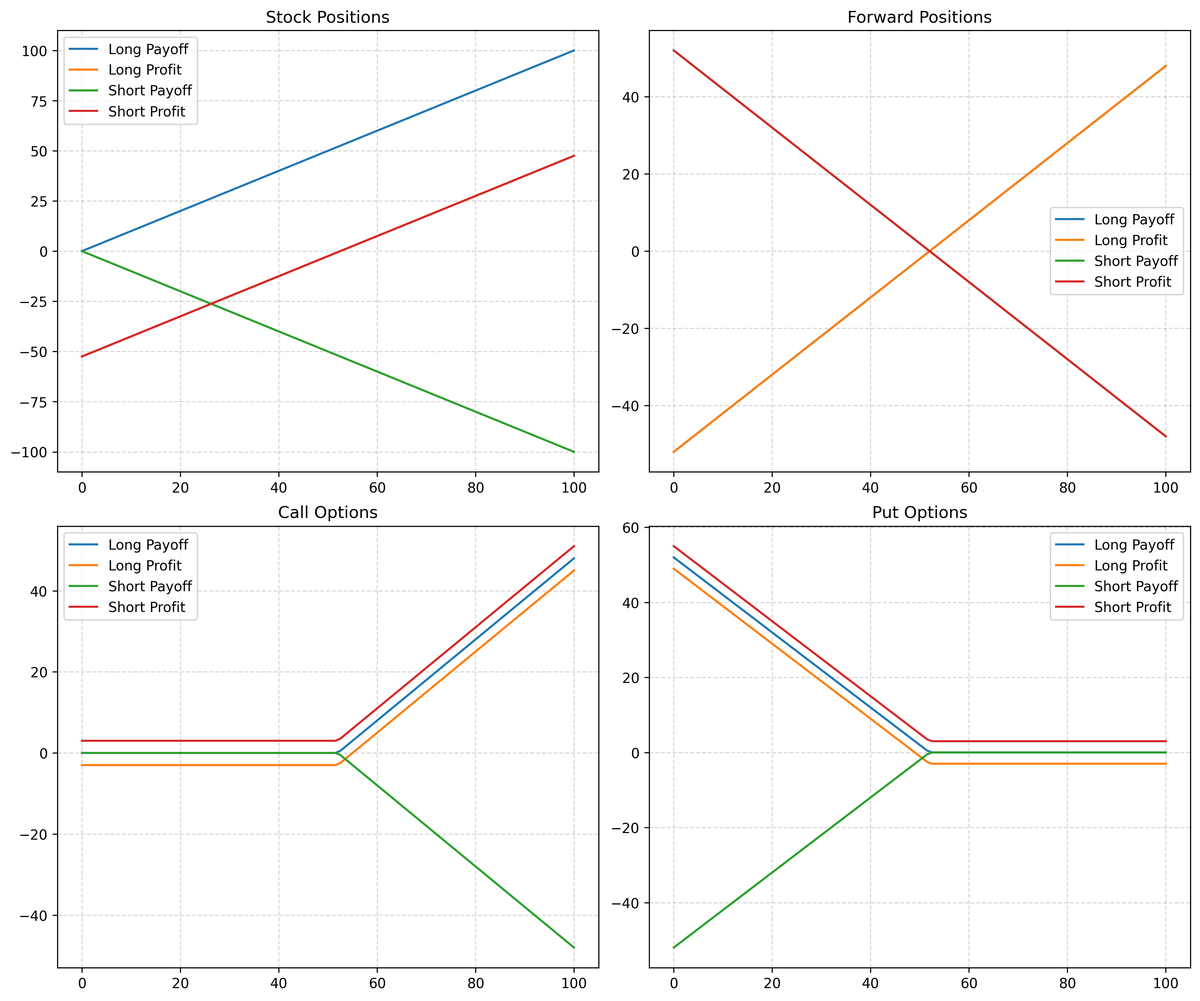
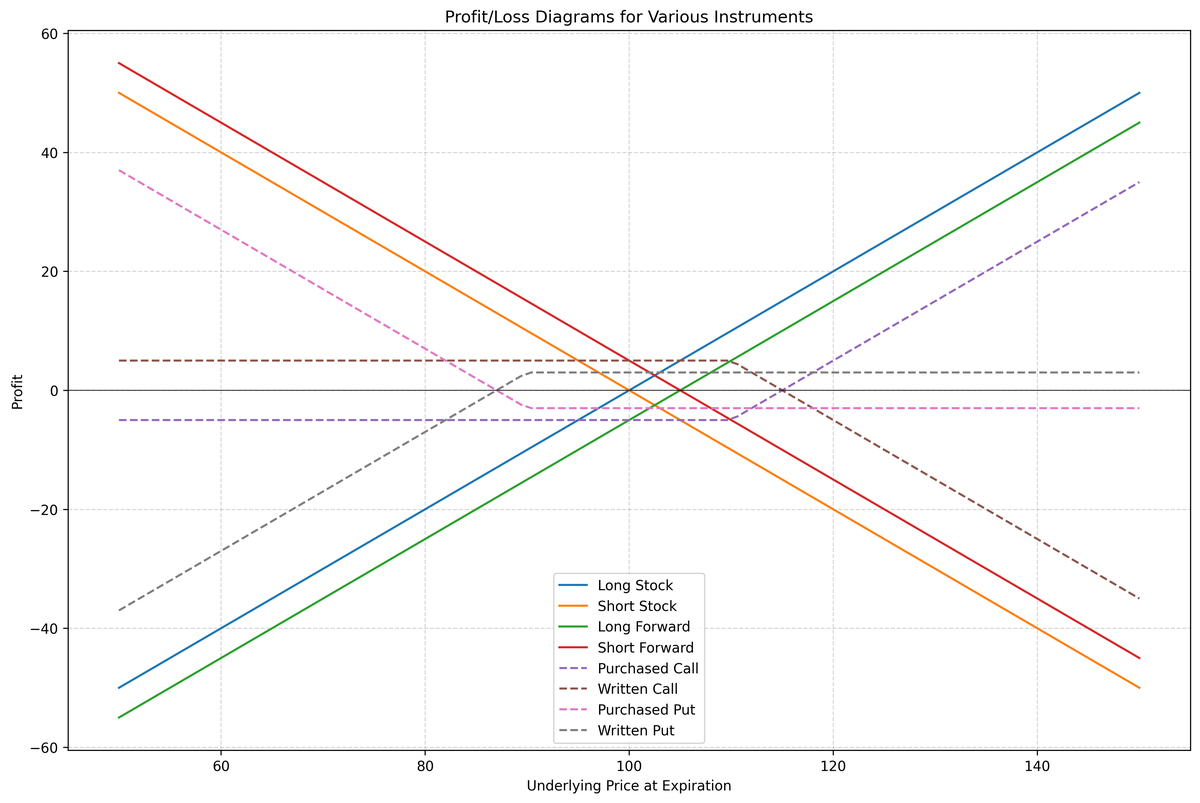
Homework 1

diff --git a/assignments/Weldon/chapter_2_9_solutions.html b/assignments/Weldon/chapter_2_9_solutions.html
@@ -425,94 +425,83 @@ pre > code.sourceCode > span > a:first-child::before { text-decoration: underlin
 <section id="problem-2.16-option-calculator-program" class="level2">
 <h2 class="anchored" data-anchor-id="problem-2.16-option-calculator-program">Problem 2.16: Option Calculator Program</h2>
 <div id="cell-prob-2-16" class="cell" data-fig-height="10" data-fig-width="12" data-execution_count="10">
-<div class="sourceCode cell-code" id="cb14"><pre class="sourceCode python code-with-copy"><code class="sourceCode python"><span id="cb14-1"><a href="#cb14-1" aria-hidden="true" tabindex="-1"></a><span class="kw">def</span> calculate_payoff_profit(position_type, params):</span>
-<span id="cb14-2"><a href="#cb14-2" aria-hidden="true" tabindex="-1"></a>    <span class="co">"""</span></span>
-<span id="cb14-3"><a href="#cb14-3" aria-hidden="true" tabindex="-1"></a><span class="co">    Calculate payoff and profit for various option positions</span></span>
-<span id="cb14-4"><a href="#cb14-4" aria-hidden="true" tabindex="-1"></a><span class="co">    </span></span>
-<span id="cb14-5"><a href="#cb14-5" aria-hidden="true" tabindex="-1"></a><span class="co">    Parameters:</span></span>
-<span id="cb14-6"><a href="#cb14-6" aria-hidden="true" tabindex="-1"></a><span class="co">    position_type: str ('stock', 'forward', 'call', 'put')</span></span>
-<span id="cb14-7"><a href="#cb14-7" aria-hidden="true" tabindex="-1"></a><span class="co">    params: dict containing relevant parameters</span></span>
-<span id="cb14-8"><a href="#cb14-8" aria-hidden="true" tabindex="-1"></a><span class="co">    """</span></span>
-<span id="cb14-9"><a href="#cb14-9" aria-hidden="true" tabindex="-1"></a>    S <span class="op">=</span> np.linspace(<span class="dv">0</span>, <span class="dv">2</span><span class="op">*</span>params.get(<span class="st">'S0'</span>, <span class="dv">100</span>), <span class="dv">100</span>)  <span class="co"># Stock prices</span></span>
-<span id="cb14-10"><a href="#cb14-10" aria-hidden="true" tabindex="-1"></a>    </span>
-<span id="cb14-11"><a href="#cb14-11" aria-hidden="true" tabindex="-1"></a>    <span class="cf">if</span> position_type <span class="op">==</span> <span class="st">'stock'</span>:</span>
-<span id="cb14-12"><a href="#cb14-12" aria-hidden="true" tabindex="-1"></a>        payoff <span class="op">=</span> S <span class="cf">if</span> params[<span class="st">'is_long'</span>] <span class="cf">else</span> <span class="op">-</span>S</span>
-<span id="cb14-13"><a href="#cb14-13" aria-hidden="true" tabindex="-1"></a>        profit <span class="op">=</span> payoff <span class="op">-</span> params[<span class="st">'S0'</span>]<span class="op">*</span>(<span class="dv">1</span> <span class="op">+</span> params[<span class="st">'r'</span>]) <span class="cf">if</span> params[<span class="st">'is_long'</span>] <span class="cf">else</span> <span class="op">-</span>payoff <span class="op">-</span> params[<span class="st">'S0'</span>]<span class="op">*</span>(<span class="dv">1</span> <span class="op">+</span> params[<span class="st">'r'</span>])</span>
-<span id="cb14-14"><a href="#cb14-14" aria-hidden="true" tabindex="-1"></a>    </span>
-<span id="cb14-15"><a href="#cb14-15" aria-hidden="true" tabindex="-1"></a>    <span class="cf">elif</span> position_type <span class="op">==</span> <span class="st">'forward'</span>:</span>
-<span id="cb14-16"><a href="#cb14-16" aria-hidden="true" tabindex="-1"></a>        payoff <span class="op">=</span> (S <span class="op">-</span> params[<span class="st">'K'</span>]) <span class="cf">if</span> params[<span class="st">'is_long'</span>] <span class="cf">else</span> <span class="op">-</span>(S <span class="op">-</span> params[<span class="st">'K'</span>])</span>
-<span id="cb14-17"><a href="#cb14-17" aria-hidden="true" tabindex="-1"></a>        profit <span class="op">=</span> payoff  <span class="co"># No upfront premium for forward</span></span>
-<span id="cb14-18"><a href="#cb14-18" aria-hidden="true" tabindex="-1"></a>        </span>
-<span id="cb14-19"><a href="#cb14-19" aria-hidden="true" tabindex="-1"></a>    <span class="cf">elif</span> position_type <span class="op">==</span> <span class="st">'call'</span>:</span>
-<span id="cb14-20"><a href="#cb14-20" aria-hidden="true" tabindex="-1"></a>        payoff <span class="op">=</span> np.maximum(S <span class="op">-</span> params[<span class="st">'K'</span>], <span class="dv">0</span>) <span class="cf">if</span> params[<span class="st">'is_long'</span>] <span class="cf">else</span> <span class="op">-</span>np.maximum(S <span class="op">-</span> params[<span class="st">'K'</span>], <span class="dv">0</span>)</span>
-<span id="cb14-21"><a href="#cb14-21" aria-hidden="true" tabindex="-1"></a>        profit <span class="op">=</span> payoff <span class="op">-</span> params[<span class="st">'premium'</span>] <span class="cf">if</span> params[<span class="st">'is_long'</span>] <span class="cf">else</span> <span class="op">-</span>payoff <span class="op">+</span> params[<span class="st">'premium'</span>]</span>
-<span id="cb14-22"><a href="#cb14-22" aria-hidden="true" tabindex="-1"></a>        </span>
-<span id="cb14-23"><a href="#cb14-23" aria-hidden="true" tabindex="-1"></a>    <span class="cf">elif</span> position_type <span class="op">==</span> <span class="st">'put'</span>:</span>
-<span id="cb14-24"><a href="#cb14-24" aria-hidden="true" tabindex="-1"></a>        payoff <span class="op">=</span> np.maximum(params[<span class="st">'K'</span>] <span class="op">-</span> S, <span class="dv">0</span>) <span class="cf">if</span> params[<span class="st">'is_long'</span>] <span class="cf">else</span> <span class="op">-</span>np.maximum(params[<span class="st">'K'</span>] <span class="op">-</span> S, <span class="dv">0</span>)</span>
-<span id="cb14-25"><a href="#cb14-25" aria-hidden="true" tabindex="-1"></a>        profit <span class="op">=</span> payoff <span class="op">-</span> params[<span class="st">'premium'</span>] <span class="cf">if</span> params[<span class="st">'is_long'</span>] <span class="cf">else</span> <span class="op">-</span>payoff <span class="op">+</span> params[<span class="st">'premium'</span>]</span>
-<span id="cb14-26"><a href="#cb14-26" aria-hidden="true" tabindex="-1"></a>    </span>
-<span id="cb14-27"><a href="#cb14-27" aria-hidden="true" tabindex="-1"></a>    <span class="cf">return</span> S, payoff, profit</span>
-<span id="cb14-28"><a href="#cb14-28" aria-hidden="true" tabindex="-1"></a></span>
-<span id="cb14-29"><a href="#cb14-29" aria-hidden="true" tabindex="-1"></a><span class="co"># Example usage</span></span>
-<span id="cb14-30"><a href="#cb14-30" aria-hidden="true" tabindex="-1"></a>params <span class="op">=</span> {</span>
-<span id="cb14-31"><a href="#cb14-31" aria-hidden="true" tabindex="-1"></a>    <span class="st">'S0'</span>: <span class="dv">50</span>,      <span class="co"># Current stock price</span></span>
-<span id="cb14-32"><a href="#cb14-32" aria-hidden="true" tabindex="-1"></a>    <span class="st">'K'</span>: <span class="dv">52</span>,       <span class="co"># Strike price</span></span>
-<span id="cb14-33"><a href="#cb14-33" aria-hidden="true" tabindex="-1"></a>    <span class="st">'r'</span>: <span class="fl">0.05</span>,     <span class="co"># Interest rate</span></span>
-<span id="cb14-34"><a href="#cb14-34" aria-hidden="true" tabindex="-1"></a>    <span class="st">'premium'</span>: <span class="dv">3</span>,   <span class="co"># Option premium</span></span>
-<span id="cb14-35"><a href="#cb14-35" aria-hidden="true" tabindex="-1"></a>    <span class="st">'is_long'</span>: <span class="va">True</span> <span class="co"># Long position</span></span>
-<span id="cb14-36"><a href="#cb14-36" aria-hidden="true" tabindex="-1"></a>}</span>
-<span id="cb14-37"><a href="#cb14-37" aria-hidden="true" tabindex="-1"></a></span>
-<span id="cb14-38"><a href="#cb14-38" aria-hidden="true" tabindex="-1"></a><span class="co"># Create subplots for all position types with constrained layout</span></span>
-<span id="cb14-39"><a href="#cb14-39" aria-hidden="true" tabindex="-1"></a>fig <span class="op">=</span> plt.figure(figsize<span class="op">=</span>(<span class="dv">12</span>, <span class="dv">10</span>), constrained_layout<span class="op">=</span><span class="va">True</span>)</span>
-<span id="cb14-40"><a href="#cb14-40" aria-hidden="true" tabindex="-1"></a>gs <span class="op">=</span> fig.add_gridspec(<span class="dv">2</span>, <span class="dv">2</span>)</span>
-<span id="cb14-41"><a href="#cb14-41" aria-hidden="true" tabindex="-1"></a></span>
-<span id="cb14-42"><a href="#cb14-42" aria-hidden="true" tabindex="-1"></a><span class="co"># Stock positions</span></span>
-<span id="cb14-43"><a href="#cb14-43" aria-hidden="true" tabindex="-1"></a>ax1 <span class="op">=</span> fig.add_subplot(gs[<span class="dv">0</span>, <span class="dv">0</span>])</span>
-<span id="cb14-44"><a href="#cb14-44" aria-hidden="true" tabindex="-1"></a>S, payoff, profit <span class="op">=</span> calculate_payoff_profit(<span class="st">'stock'</span>, {<span class="op">**</span>params, <span class="st">'is_long'</span>: <span class="va">True</span>})</span>
-<span id="cb14-45"><a href="#cb14-45" aria-hidden="true" tabindex="-1"></a>ax1.plot(S, payoff, label<span class="op">=</span><span class="st">'Long Payoff'</span>)</span>
-<span id="cb14-46"><a href="#cb14-46" aria-hidden="true" tabindex="-1"></a>ax1.plot(S, profit, label<span class="op">=</span><span class="st">'Long Profit'</span>)</span>
-<span id="cb14-47"><a href="#cb14-47" aria-hidden="true" tabindex="-1"></a>S, payoff, profit <span class="op">=</span> calculate_payoff_profit(<span class="st">'stock'</span>, {<span class="op">**</span>params, <span class="st">'is_long'</span>: <span class="va">False</span>})</span>
-<span id="cb14-48"><a href="#cb14-48" aria-hidden="true" tabindex="-1"></a>ax1.plot(S, payoff, label<span class="op">=</span><span class="st">'Short Payoff'</span>)</span>
-<span id="cb14-49"><a href="#cb14-49" aria-hidden="true" tabindex="-1"></a>ax1.plot(S, profit, label<span class="op">=</span><span class="st">'Short Profit'</span>)</span>
-<span id="cb14-50"><a href="#cb14-50" aria-hidden="true" tabindex="-1"></a>ax1.set_title(<span class="st">'Stock Positions'</span>)</span>
-<span id="cb14-51"><a href="#cb14-51" aria-hidden="true" tabindex="-1"></a>ax1.grid(<span class="va">True</span>)</span>
-<span id="cb14-52"><a href="#cb14-52" aria-hidden="true" tabindex="-1"></a>ax1.legend()</span>
-<span id="cb14-53"><a href="#cb14-53" aria-hidden="true" tabindex="-1"></a></span>
-<span id="cb14-54"><a href="#cb14-54" aria-hidden="true" tabindex="-1"></a><span class="co"># Forward positions</span></span>
-<span id="cb14-55"><a href="#cb14-55" aria-hidden="true" tabindex="-1"></a>ax2 <span class="op">=</span> fig.add_subplot(gs[<span class="dv">0</span>, <span class="dv">1</span>])</span>
-<span id="cb14-56"><a href="#cb14-56" aria-hidden="true" tabindex="-1"></a>S, payoff, profit <span class="op">=</span> calculate_payoff_profit(<span class="st">'forward'</span>, {<span class="op">**</span>params, <span class="st">'is_long'</span>: <span class="va">True</span>})</span>
-<span id="cb14-57"><a href="#cb14-57" aria-hidden="true" tabindex="-1"></a>ax2.plot(S, payoff, label<span class="op">=</span><span class="st">'Long Payoff'</span>)</span>
-<span id="cb14-58"><a href="#cb14-58" aria-hidden="true" tabindex="-1"></a>ax2.plot(S, profit, label<span class="op">=</span><span class="st">'Long Profit'</span>)</span>
-<span id="cb14-59"><a href="#cb14-59" aria-hidden="true" tabindex="-1"></a>S, payoff, profit <span class="op">=</span> calculate_payoff_profit(<span class="st">'forward'</span>, {<span class="op">**</span>params, <span class="st">'is_long'</span>: <span class="va">False</span>})</span>
-<span id="cb14-60"><a href="#cb14-60" aria-hidden="true" tabindex="-1"></a>ax2.plot(S, payoff, label<span class="op">=</span><span class="st">'Short Payoff'</span>)</span>
-<span id="cb14-61"><a href="#cb14-61" aria-hidden="true" tabindex="-1"></a>ax2.plot(S, profit, label<span class="op">=</span><span class="st">'Short Profit'</span>)</span>
-<span id="cb14-62"><a href="#cb14-62" aria-hidden="true" tabindex="-1"></a>ax2.set_title(<span class="st">'Forward Positions'</span>)</span>
-<span id="cb14-63"><a href="#cb14-63" aria-hidden="true" tabindex="-1"></a>ax2.grid(<span class="va">True</span>)</span>
-<span id="cb14-64"><a href="#cb14-64" aria-hidden="true" tabindex="-1"></a>ax2.legend()</span>
-<span id="cb14-65"><a href="#cb14-65" aria-hidden="true" tabindex="-1"></a></span>
-<span id="cb14-66"><a href="#cb14-66" aria-hidden="true" tabindex="-1"></a><span class="co"># Call options</span></span>
-<span id="cb14-67"><a href="#cb14-67" aria-hidden="true" tabindex="-1"></a>ax3 <span class="op">=</span> fig.add_subplot(gs[<span class="dv">1</span>, <span class="dv">0</span>])</span>
-<span id="cb14-68"><a href="#cb14-68" aria-hidden="true" tabindex="-1"></a>S, payoff, profit <span class="op">=</span> calculate_payoff_profit(<span class="st">'call'</span>, {<span class="op">**</span>params, <span class="st">'is_long'</span>: <span class="va">True</span>})</span>
-<span id="cb14-69"><a href="#cb14-69" aria-hidden="true" tabindex="-1"></a>ax3.plot(S, payoff, label<span class="op">=</span><span class="st">'Long Payoff'</span>)</span>
-<span id="cb14-70"><a href="#cb14-70" aria-hidden="true" tabindex="-1"></a>ax3.plot(S, profit, label<span class="op">=</span><span class="st">'Long Profit'</span>)</span>
-<span id="cb14-71"><a href="#cb14-71" aria-hidden="true" tabindex="-1"></a>S, payoff, profit <span class="op">=</span> calculate_payoff_profit(<span class="st">'call'</span>, {<span class="op">**</span>params, <span class="st">'is_long'</span>: <span class="va">False</span>})</span>
-<span id="cb14-72"><a href="#cb14-72" aria-hidden="true" tabindex="-1"></a>ax3.plot(S, payoff, label<span class="op">=</span><span class="st">'Short Payoff'</span>)</span>
-<span id="cb14-73"><a href="#cb14-73" aria-hidden="true" tabindex="-1"></a>ax3.plot(S, profit, label<span class="op">=</span><span class="st">'Short Profit'</span>)</span>
-<span id="cb14-74"><a href="#cb14-74" aria-hidden="true" tabindex="-1"></a>ax3.set_title(<span class="st">'Call Options'</span>)</span>
-<span id="cb14-75"><a href="#cb14-75" aria-hidden="true" tabindex="-1"></a>ax3.grid(<span class="va">True</span>)</span>
-<span id="cb14-76"><a href="#cb14-76" aria-hidden="true" tabindex="-1"></a>ax3.legend()</span>
-<span id="cb14-77"><a href="#cb14-77" aria-hidden="true" tabindex="-1"></a></span>
-<span id="cb14-78"><a href="#cb14-78" aria-hidden="true" tabindex="-1"></a><span class="co"># Put options</span></span>
-<span id="cb14-79"><a href="#cb14-79" aria-hidden="true" tabindex="-1"></a>ax4 <span class="op">=</span> fig.add_subplot(gs[<span class="dv">1</span>, <span class="dv">1</span>])</span>
-<span id="cb14-80"><a href="#cb14-80" aria-hidden="true" tabindex="-1"></a>S, payoff, profit <span class="op">=</span> calculate_payoff_profit(<span class="st">'put'</span>, {<span class="op">**</span>params, <span class="st">'is_long'</span>: <span class="va">True</span>})</span>
-<span id="cb14-81"><a href="#cb14-81" aria-hidden="true" tabindex="-1"></a>ax4.plot(S, payoff, label<span class="op">=</span><span class="st">'Long Payoff'</span>)</span>
-<span id="cb14-82"><a href="#cb14-82" aria-hidden="true" tabindex="-1"></a>ax4.plot(S, profit, label<span class="op">=</span><span class="st">'Long Profit'</span>)</span>
-<span id="cb14-83"><a href="#cb14-83" aria-hidden="true" tabindex="-1"></a>S, payoff, profit <span class="op">=</span> calculate_payoff_profit(<span class="st">'put'</span>, {<span class="op">**</span>params, <span class="st">'is_long'</span>: <span class="va">False</span>})</span>
-<span id="cb14-84"><a href="#cb14-84" aria-hidden="true" tabindex="-1"></a>ax4.plot(S, payoff, label<span class="op">=</span><span class="st">'Short Payoff'</span>)</span>
-<span id="cb14-85"><a href="#cb14-85" aria-hidden="true" tabindex="-1"></a>ax4.plot(S, profit, label<span class="op">=</span><span class="st">'Short Profit'</span>)</span>
-<span id="cb14-86"><a href="#cb14-86" aria-hidden="true" tabindex="-1"></a>ax4.set_title(<span class="st">'Put Options'</span>)</span>
-<span id="cb14-87"><a href="#cb14-87" aria-hidden="true" tabindex="-1"></a>ax4.grid(<span class="va">True</span>)</span>
-<span id="cb14-88"><a href="#cb14-88" aria-hidden="true" tabindex="-1"></a>ax4.legend()</span></code><button title="Copy to Clipboard" class="code-copy-button"><i class="bi"></i></button></pre></div>
+<div class="sourceCode cell-code" id="cb14"><pre class="sourceCode python code-with-copy"><code class="sourceCode python"><span id="cb14-1"><a href="#cb14-1" aria-hidden="true" tabindex="-1"></a><span class="kw">def</span> calculate_instruments(S_T, S0, F, r, call_strike, call_premium, put_strike, put_premium):</span>
+<span id="cb14-2"><a href="#cb14-2" aria-hidden="true" tabindex="-1"></a>    <span class="co">"""Calculate payoffs and profits for all instruments"""</span></span>
+<span id="cb14-3"><a href="#cb14-3" aria-hidden="true" tabindex="-1"></a>    results <span class="op">=</span> {}</span>
+<span id="cb14-4"><a href="#cb14-4" aria-hidden="true" tabindex="-1"></a>    </span>
+<span id="cb14-5"><a href="#cb14-5" aria-hidden="true" tabindex="-1"></a>    <span class="co"># Stock positions</span></span>
+<span id="cb14-6"><a href="#cb14-6" aria-hidden="true" tabindex="-1"></a>    results[<span class="st">'long_stock'</span>] <span class="op">=</span> S_T <span class="op">-</span> S0</span>
+<span id="cb14-7"><a href="#cb14-7" aria-hidden="true" tabindex="-1"></a>    results[<span class="st">'short_stock'</span>] <span class="op">=</span> S0 <span class="op">-</span> S_T</span>
+<span id="cb14-8"><a href="#cb14-8" aria-hidden="true" tabindex="-1"></a>    </span>
+<span id="cb14-9"><a href="#cb14-9" aria-hidden="true" tabindex="-1"></a>    <span class="co"># Forward positions</span></span>
+<span id="cb14-10"><a href="#cb14-10" aria-hidden="true" tabindex="-1"></a>    results[<span class="st">'long_forward'</span>] <span class="op">=</span> S_T <span class="op">-</span> F</span>
+<span id="cb14-11"><a href="#cb14-11" aria-hidden="true" tabindex="-1"></a>    results[<span class="st">'short_forward'</span>] <span class="op">=</span> F <span class="op">-</span> S_T</span>
+<span id="cb14-12"><a href="#cb14-12" aria-hidden="true" tabindex="-1"></a>    </span>
+<span id="cb14-13"><a href="#cb14-13" aria-hidden="true" tabindex="-1"></a>    <span class="co"># Call options</span></span>
+<span id="cb14-14"><a href="#cb14-14" aria-hidden="true" tabindex="-1"></a>    call_payoff_long <span class="op">=</span> np.maximum(S_T <span class="op">-</span> call_strike, <span class="dv">0</span>)</span>
+<span id="cb14-15"><a href="#cb14-15" aria-hidden="true" tabindex="-1"></a>    results[<span class="st">'call_purchased'</span>] <span class="op">=</span> {</span>
+<span id="cb14-16"><a href="#cb14-16" aria-hidden="true" tabindex="-1"></a>        <span class="st">'payoff'</span>: call_payoff_long,</span>
+<span id="cb14-17"><a href="#cb14-17" aria-hidden="true" tabindex="-1"></a>        <span class="st">'profit'</span>: call_payoff_long <span class="op">-</span> call_premium</span>
+<span id="cb14-18"><a href="#cb14-18" aria-hidden="true" tabindex="-1"></a>    }</span>
+<span id="cb14-19"><a href="#cb14-19" aria-hidden="true" tabindex="-1"></a>    results[<span class="st">'call_written'</span>] <span class="op">=</span> {</span>
+<span id="cb14-20"><a href="#cb14-20" aria-hidden="true" tabindex="-1"></a>        <span class="st">'payoff'</span>: <span class="op">-</span>call_payoff_long,</span>
+<span id="cb14-21"><a href="#cb14-21" aria-hidden="true" tabindex="-1"></a>        <span class="st">'profit'</span>: <span class="op">-</span>call_payoff_long <span class="op">+</span> call_premium</span>
+<span id="cb14-22"><a href="#cb14-22" aria-hidden="true" tabindex="-1"></a>    }</span>
+<span id="cb14-23"><a href="#cb14-23" aria-hidden="true" tabindex="-1"></a>    </span>
+<span id="cb14-24"><a href="#cb14-24" aria-hidden="true" tabindex="-1"></a>    <span class="co"># Put options</span></span>
+<span id="cb14-25"><a href="#cb14-25" aria-hidden="true" tabindex="-1"></a>    put_payoff_long <span class="op">=</span> np.maximum(put_strike <span class="op">-</span> S_T, <span class="dv">0</span>)</span>
+<span id="cb14-26"><a href="#cb14-26" aria-hidden="true" tabindex="-1"></a>    results[<span class="st">'put_purchased'</span>] <span class="op">=</span> {</span>
+<span id="cb14-27"><a href="#cb14-27" aria-hidden="true" tabindex="-1"></a>        <span class="st">'payoff'</span>: put_payoff_long,</span>
+<span id="cb14-28"><a href="#cb14-28" aria-hidden="true" tabindex="-1"></a>        <span class="st">'profit'</span>: put_payoff_long <span class="op">-</span> put_premium</span>
+<span id="cb14-29"><a href="#cb14-29" aria-hidden="true" tabindex="-1"></a>    }</span>
+<span id="cb14-30"><a href="#cb14-30" aria-hidden="true" tabindex="-1"></a>    results[<span class="st">'put_written'</span>] <span class="op">=</span> {</span>
+<span id="cb14-31"><a href="#cb14-31" aria-hidden="true" tabindex="-1"></a>        <span class="st">'payoff'</span>: <span class="op">-</span>put_payoff_long,</span>
+<span id="cb14-32"><a href="#cb14-32" aria-hidden="true" tabindex="-1"></a>        <span class="st">'profit'</span>: <span class="op">-</span>put_payoff_long <span class="op">+</span> put_premium</span>
+<span id="cb14-33"><a href="#cb14-33" aria-hidden="true" tabindex="-1"></a>    }</span>
+<span id="cb14-34"><a href="#cb14-34" aria-hidden="true" tabindex="-1"></a>    </span>
+<span id="cb14-35"><a href="#cb14-35" aria-hidden="true" tabindex="-1"></a>    <span class="cf">return</span> results</span>
+<span id="cb14-36"><a href="#cb14-36" aria-hidden="true" tabindex="-1"></a></span>
+<span id="cb14-37"><a href="#cb14-37" aria-hidden="true" tabindex="-1"></a><span class="co"># Parameters (user can modify these)</span></span>
+<span id="cb14-38"><a href="#cb14-38" aria-hidden="true" tabindex="-1"></a>S0 <span class="op">=</span> <span class="dv">100</span>        <span class="co"># Initial stock price</span></span>
+<span id="cb14-39"><a href="#cb14-39" aria-hidden="true" tabindex="-1"></a>F <span class="op">=</span> <span class="dv">105</span>         <span class="co"># Forward price</span></span>
+<span id="cb14-40"><a href="#cb14-40" aria-hidden="true" tabindex="-1"></a>r <span class="op">=</span> <span class="fl">0.05</span>        <span class="co"># Annual interest rate</span></span>
+<span id="cb14-41"><a href="#cb14-41" aria-hidden="true" tabindex="-1"></a>call_strike <span class="op">=</span> <span class="dv">110</span></span>
+<span id="cb14-42"><a href="#cb14-42" aria-hidden="true" tabindex="-1"></a>call_premium <span class="op">=</span> <span class="dv">5</span></span>
+<span id="cb14-43"><a href="#cb14-43" aria-hidden="true" tabindex="-1"></a>put_strike <span class="op">=</span> <span class="dv">90</span></span>
+<span id="cb14-44"><a href="#cb14-44" aria-hidden="true" tabindex="-1"></a>put_premium <span class="op">=</span> <span class="dv">3</span></span>
+<span id="cb14-45"><a href="#cb14-45" aria-hidden="true" tabindex="-1"></a></span>
+<span id="cb14-46"><a href="#cb14-46" aria-hidden="true" tabindex="-1"></a><span class="co"># Generate stock price range</span></span>
+<span id="cb14-47"><a href="#cb14-47" aria-hidden="true" tabindex="-1"></a>S_T <span class="op">=</span> np.linspace(<span class="dv">50</span>, <span class="dv">150</span>, <span class="dv">100</span>)</span>
+<span id="cb14-48"><a href="#cb14-48" aria-hidden="true" tabindex="-1"></a></span>
+<span id="cb14-49"><a href="#cb14-49" aria-hidden="true" tabindex="-1"></a><span class="co"># Calculate all instruments</span></span>
+<span id="cb14-50"><a href="#cb14-50" aria-hidden="true" tabindex="-1"></a>results <span class="op">=</span> calculate_instruments(S_T, S0, F, r, call_strike, call_premium, put_strike, put_premium)</span>
+<span id="cb14-51"><a href="#cb14-51" aria-hidden="true" tabindex="-1"></a></span>
+<span id="cb14-52"><a href="#cb14-52" aria-hidden="true" tabindex="-1"></a><span class="co"># Plotting</span></span>
+<span id="cb14-53"><a href="#cb14-53" aria-hidden="true" tabindex="-1"></a>plt.figure(figsize<span class="op">=</span>(<span class="dv">12</span>, <span class="dv">8</span>))</span>
+<span id="cb14-54"><a href="#cb14-54" aria-hidden="true" tabindex="-1"></a></span>
+<span id="cb14-55"><a href="#cb14-55" aria-hidden="true" tabindex="-1"></a><span class="co"># Plot stock positions</span></span>
+<span id="cb14-56"><a href="#cb14-56" aria-hidden="true" tabindex="-1"></a>plt.plot(S_T, results[<span class="st">'long_stock'</span>], label<span class="op">=</span><span class="st">'Long Stock'</span>)</span>
+<span id="cb14-57"><a href="#cb14-57" aria-hidden="true" tabindex="-1"></a>plt.plot(S_T, results[<span class="st">'short_stock'</span>], label<span class="op">=</span><span class="st">'Short Stock'</span>)</span>
+<span id="cb14-58"><a href="#cb14-58" aria-hidden="true" tabindex="-1"></a></span>
+<span id="cb14-59"><a href="#cb14-59" aria-hidden="true" tabindex="-1"></a><span class="co"># Plot forward positions</span></span>
+<span id="cb14-60"><a href="#cb14-60" aria-hidden="true" tabindex="-1"></a>plt.plot(S_T, results[<span class="st">'long_forward'</span>], label<span class="op">=</span><span class="st">'Long Forward'</span>)</span>
+<span id="cb14-61"><a href="#cb14-61" aria-hidden="true" tabindex="-1"></a>plt.plot(S_T, results[<span class="st">'short_forward'</span>], label<span class="op">=</span><span class="st">'Short Forward'</span>)</span>
+<span id="cb14-62"><a href="#cb14-62" aria-hidden="true" tabindex="-1"></a></span>
+<span id="cb14-63"><a href="#cb14-63" aria-hidden="true" tabindex="-1"></a><span class="co"># Plot call options</span></span>
+<span id="cb14-64"><a href="#cb14-64" aria-hidden="true" tabindex="-1"></a>plt.plot(S_T, results[<span class="st">'call_purchased'</span>][<span class="st">'profit'</span>], <span class="st">'--'</span>, label<span class="op">=</span><span class="st">'Purchased Call'</span>)</span>
+<span id="cb14-65"><a href="#cb14-65" aria-hidden="true" tabindex="-1"></a>plt.plot(S_T, results[<span class="st">'call_written'</span>][<span class="st">'profit'</span>], <span class="st">'--'</span>, label<span class="op">=</span><span class="st">'Written Call'</span>)</span>
+<span id="cb14-66"><a href="#cb14-66" aria-hidden="true" tabindex="-1"></a></span>
+<span id="cb14-67"><a href="#cb14-67" aria-hidden="true" tabindex="-1"></a><span class="co"># Plot put options</span></span>
+<span id="cb14-68"><a href="#cb14-68" aria-hidden="true" tabindex="-1"></a>plt.plot(S_T, results[<span class="st">'put_purchased'</span>][<span class="st">'profit'</span>], <span class="st">'--'</span>, label<span class="op">=</span><span class="st">'Purchased Put'</span>)</span>
+<span id="cb14-69"><a href="#cb14-69" aria-hidden="true" tabindex="-1"></a>plt.plot(S_T, results[<span class="st">'put_written'</span>][<span class="st">'profit'</span>], <span class="st">'--'</span>, label<span class="op">=</span><span class="st">'Written Put'</span>)</span>
+<span id="cb14-70"><a href="#cb14-70" aria-hidden="true" tabindex="-1"></a></span>
+<span id="cb14-71"><a href="#cb14-71" aria-hidden="true" tabindex="-1"></a><span class="co"># Formatting</span></span>
+<span id="cb14-72"><a href="#cb14-72" aria-hidden="true" tabindex="-1"></a>plt.title(<span class="st">'Profit/Loss Diagrams for Various Instruments'</span>)</span>
+<span id="cb14-73"><a href="#cb14-73" aria-hidden="true" tabindex="-1"></a>plt.xlabel(<span class="st">'Underlying Price at Expiration'</span>)</span>
+<span id="cb14-74"><a href="#cb14-74" aria-hidden="true" tabindex="-1"></a>plt.ylabel(<span class="st">'Profit'</span>)</span>
+<span id="cb14-75"><a href="#cb14-75" aria-hidden="true" tabindex="-1"></a>plt.axhline(<span class="dv">0</span>, color<span class="op">=</span><span class="st">'black'</span>, lw<span class="op">=</span><span class="fl">0.5</span>)</span>
+<span id="cb14-76"><a href="#cb14-76" aria-hidden="true" tabindex="-1"></a>plt.grid(<span class="va">True</span>)</span>
+<span id="cb14-77"><a href="#cb14-77" aria-hidden="true" tabindex="-1"></a>plt.legend()</span></code><button title="Copy to Clipboard" class="code-copy-button"><i class="bi"></i></button></pre></div>
 <div class="cell-output cell-output-display">
 <div>
 <figure class="figure">
